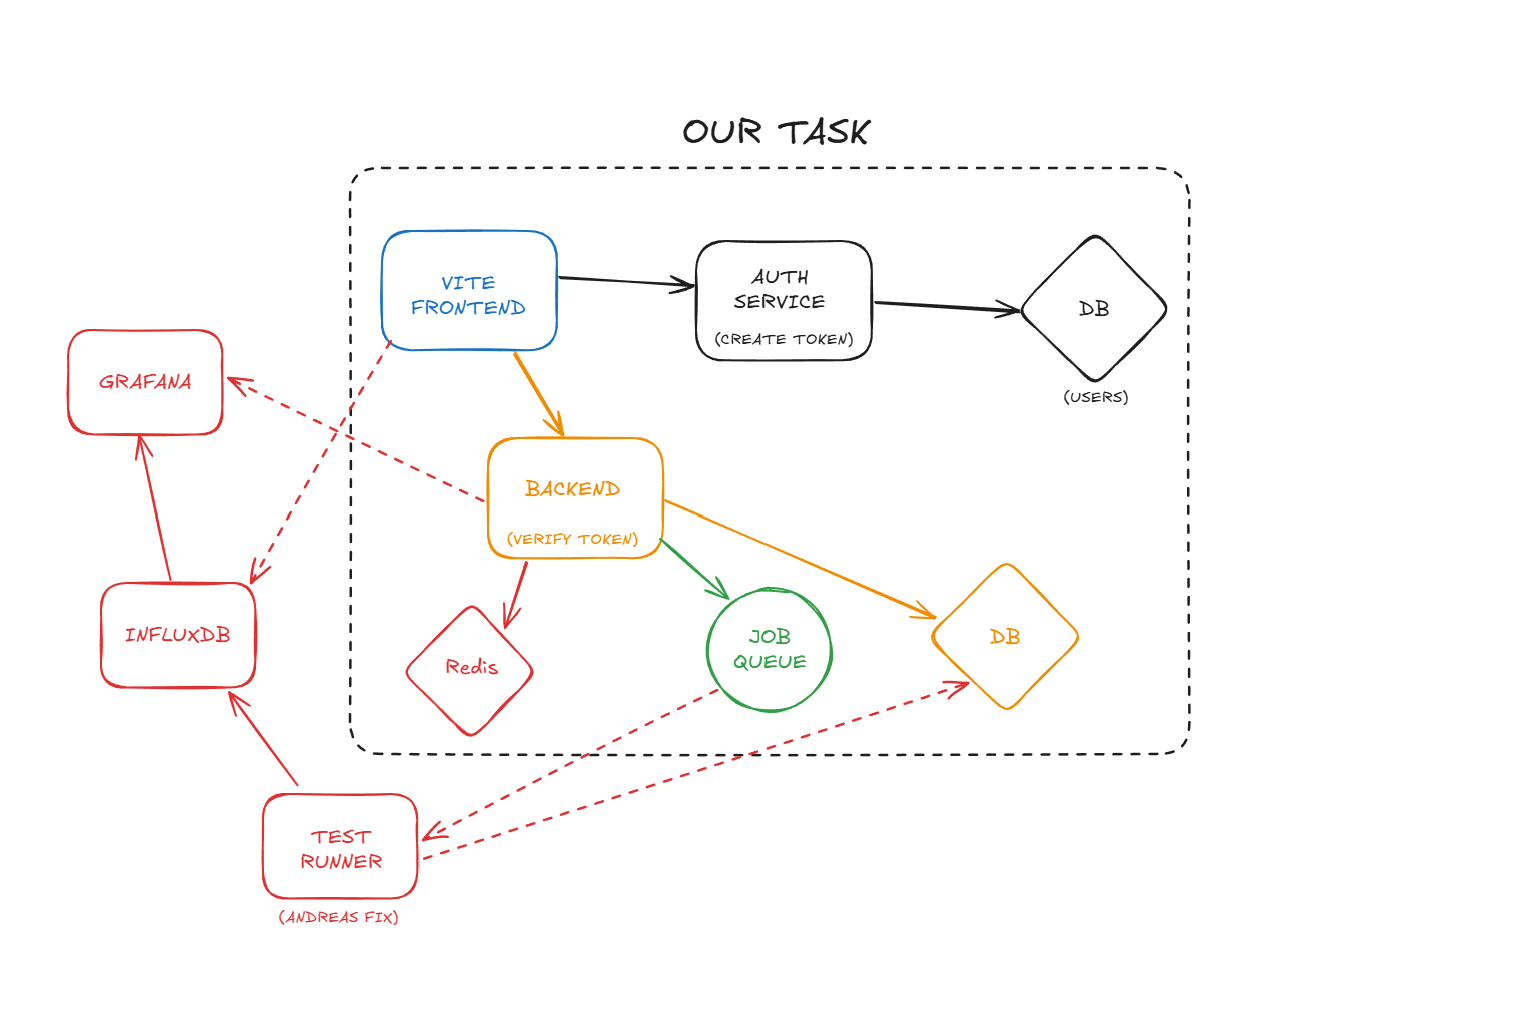
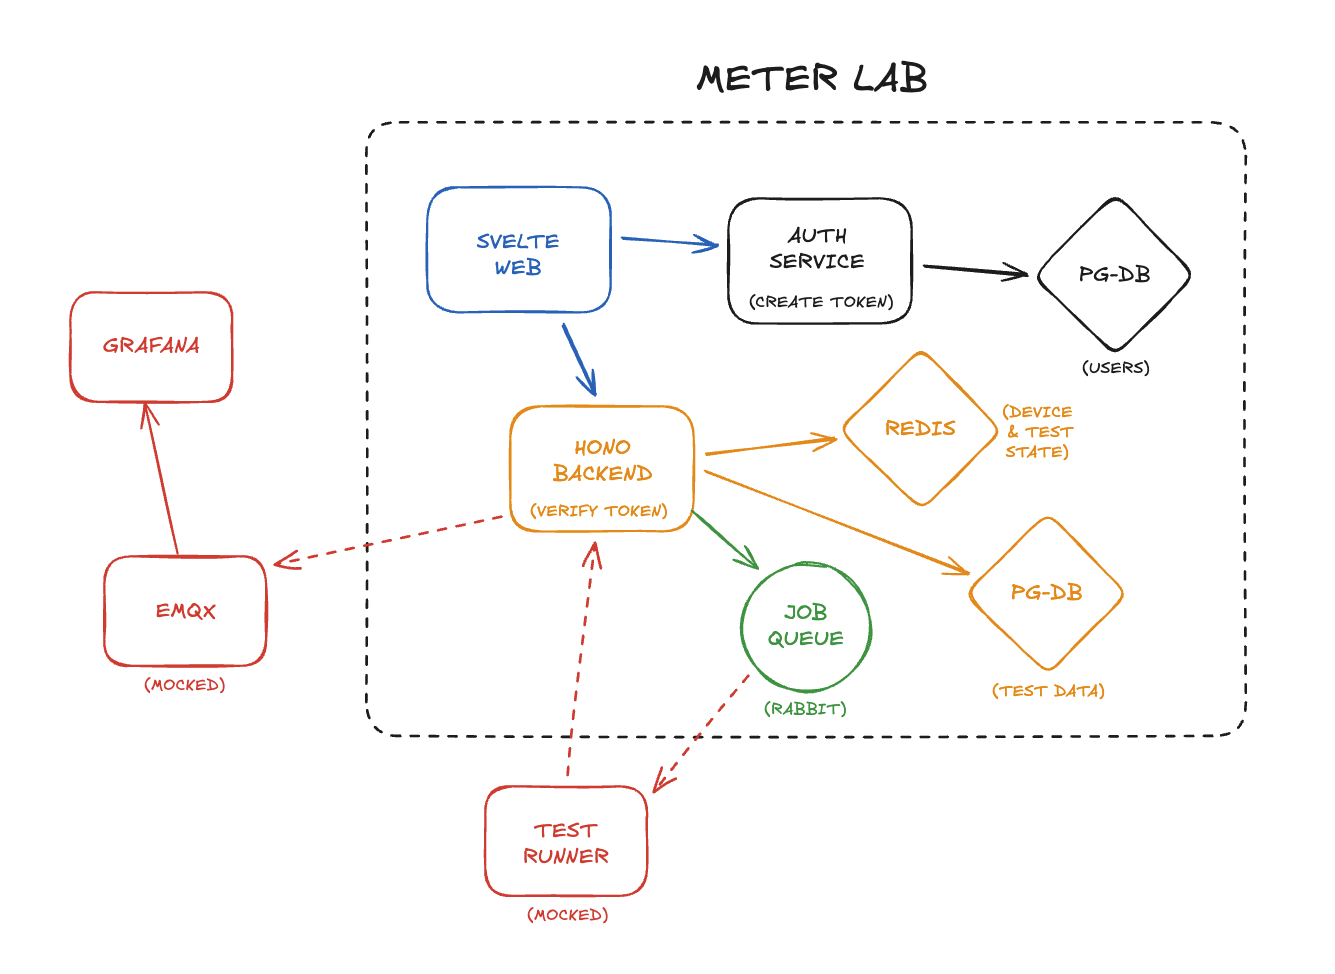
Update Architecutre skiss

diff --git a/Architecture.md b/Architecture.md
@@ -11,88 +11,124 @@ Our task is to create every microservice that are inside of the doted box. Grafa
 #### Responsibilities
 
 - Handle user authentication using Better Auth.
-- Create and validate tokens (e.g. JWT or session tokens).
-- Store user and session information in the user database (and Redis if we use session storage).
-- Expose endpoints that the frontend uses for login/logout.
+- Create authentication tokens (e.g. JWT).
+- Persist user and authentication data.
+- Provide a **dashboard** for:
+  - adding users
+  - managing users
+  - assigning roles and permissions
+- Expose authentication endpoints used by the frontend for login and logout.
+
+> Token validation is handled by the Backend service.
 
 #### Technology
 
-- Node.js-based service using Hono and Better Auth.
-- Persists users in a PostgreSQL database.
+- **Next.js** application.
+- Uses **Better Auth** for authentication.
+- **Custom-built** admin dashboard.
+- Persists users in a **PostgreSQL database (users DB)** using Drizzle ORM.
 
-### 2. Frontend Service
+---
+
+### 2. Frontend (Svelte Web)
 
 #### Responsibilities
 
 - Provide the user interface for:
   - logging in
-  - viewing devices and their status
-  - managing test cases and environments
+  - viewing devices and their current state
+  - managing test cases and test environments
   - creating and inspecting test runs
-- Call the backend API for all data and actions.
-- Forward the authentication token received from the Auth Service on each request.
+- Communicate with the Auth Service for authentication.
+- Communicate with the Backend API for all application data and actions.
+- Forward the authentication token on each backend request.
 
 #### Technology
 
-- Vite + (Svelte)
-- pico.css for styling
-- Communicates with backend via JSON over HTTP (REST).
+- **SvelteKit with Node.js**
+- **Shadcn-Svelte** and **Tailwind CSS** for styling
+- JSON over HTTP (RPC)
+
+---
 
 ### 3. Backend Service
 
 #### Responsibilities
 
-- Verify tokens on all incoming API requests.
-- Provide REST endpoints for:
-  - devices (logical view and state)
-  - test cases
-  - test environments
-  - test runs and their results
-- Maintain device state (Available / In Test / Offline).
-- On “start test run”:
+- Verify authentication tokens on all incoming API requests.
+- Provide REST & RPC endpoints for:
+  - devices (logical representation and state)
+  - tests
+  - test results
+  - creating test
+- Maintain device state:
+  - Available
+  - Under Test
+  - Offline
+- On **start test run**:
   - validate input
-  - mark devices as In Test
-  - persist the TestRun in the database
-  - send a job to the job queue.
-- Expose a callback endpoint that the Test Runner calls when a job finishes, to:
-  - store results
-  - update TestRun status
-  - mark devices as Available again.
+  - update device state to *Under Test*
+  - persist test run metadata
+  - enqueue a job in the job queue
+- Receive callbacks from the Test Runner when a job finishes to:
+  - store test results
+  - update test run status
+  - mark devices as *Available* again
+- Interact with EMQX (currently mocked).
 
 #### Technology
 
-- Node.js backend using Hono.
+- Node.js service using **Hono**.
 - Communicates with:
-  - Database (PostgreSQL)
-  - Job queue (RabbitMQ)
-  - Auth service (Better Auth)
-  - External systems indirectly via the Test Runner.
+  - **PostgreSQL (test data DB)**
+  - **Redis** (device and test state)
+  - **RabbitMQ** (job queue)
+  - **Auth Service** (token verification)
+
+---
 
 ### 4. Job Queue
 
 #### Responsibilities
 
-- Decouple HTTP requests from long-running test execution.
-- Receive test jobs from the backend.
+- Decouple synchronous HTTP requests from long-running test execution.
+- Receive test execution jobs from the Backend.
 - Deliver jobs to the Test Runner service.
 
 #### Technology
 
-- RabbitMQ.
-- Asynchronous communication:
+- **RabbitMQ**
+- Asynchronous messaging:
   - Backend → RabbitMQ (publish job)
   - Test Runner → RabbitMQ (consume job)
 
-### 5. Database
+---
+
+### 5. Databases
+
+#### PostgreSQL – Users
+
+- Stores user and authentication-related data.
+- Used exclusively by the Auth Service.
+
+#### PostgreSQL – Test Data
+
+- Stores application data:
+  - devices
+  - tests & their results
+
+---
+
+### 6. Cache
 
 #### Responsibilities
 
-- Store application data:
-  - devices (logical representation)
-  - test cases
-  - test environments
-  - test runs and results
+- Store fast-changing state:
+  - device state
+  - active test state
+- Reduce load on the primary database.
+- Support real-time status updates.
 
 #### Technology
 
-- PostgreSQL.
+- **Redis**
